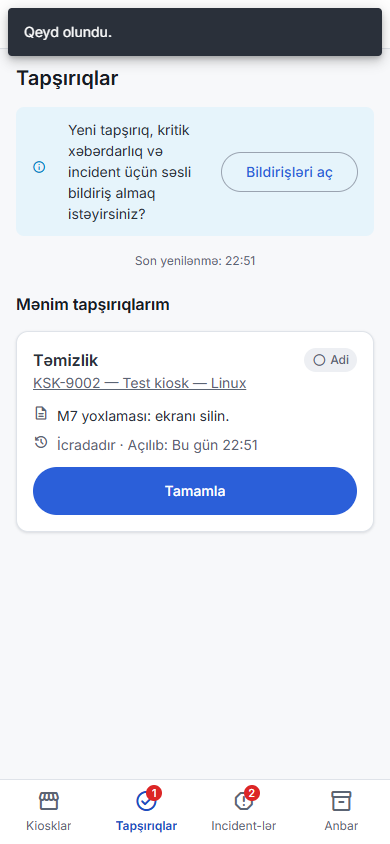
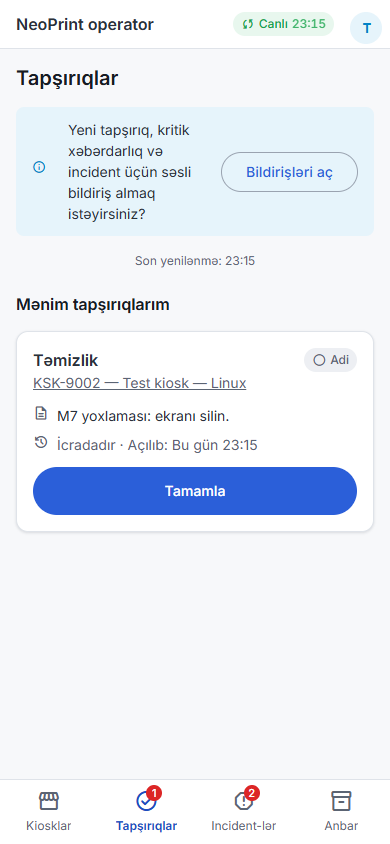
docs: the operator flow script's toner step; two dialog problems among the solved UI problems (T-211)

Changed region(s): [[0.0, 0.0, 1.0, 0.0924], [0.5846, 0.5237, 0.6462, 0.5545], [0.6154, 0.3081, 0.6462, 0.3389]]

diff --git a/docs/TASKS.md b/docs/TASKS.md
@@ -234,7 +234,7 @@ Statuslar: `Açıq`, `İcrada`, `Tamamlandı`, `Ləğv edildi (səbəb)`, `Təxi
 | T-208 | 2026-10-11 | 7A | Addım 7A / M4: **uzaqdan əmrlər** (plan 7.8) — `Pause`, `Resume`, `RestartApp`, `Reboot`: backend (idempotent, audit), kiosk icrası, nəticənin geri bildirilməsi; real stack: admin API-dən əmr → Linux kioskda icra | Tamamlandı | `3da4dc2` (backend), `779a02c`, `b1b3d16`, `75ebc4f` (kiosk, sənədlər); CI run 38177726243 — 7 iş yaşıl. **Backend:** `KioskCommandType` + `Pause`, `Resume`, `RestartApp`, `Reboot`; `KioskCommandStatus.Acknowledged`; `Kiosk.PauseByAdmin` / `ResumeByAdmin` (bayraq + `Maintenance`; server dərhal sifarişi rədd edir, kiosk offline olsa da; heartbeat, test çapı və safe mode-dan çıxış fasiləni götürmür); `POST admin/kiosks/{id}/pause \| resume \| restart-app \| reboot` (`kiosks.commands.pause` / `.restart` / `.reboot`), açıq əmr varsa o qaytarılır, audit; `POST kiosks/me/commands/{id}/ack`. **Kiosk:** `Pause` / `Resume` konfiqurasiyanı yenidən oxuyur, ekranda "Texniki xidmət" (restart-dan sonra da), sifarişin ortasındakı müştəri bitirir; `RestartApp` / `Reboot` təsdiqlənir, cari çapı gözləyir, `ISystemControl` ilə icra olunur, nəticəni yenidən qalxan tətbiq yazır (reboot — uptime ilə); safe mode-da xidmət əmrləri işləyir, çap əmrləri gözləyir. **Testlər:** domen `KioskAdminPauseTests` (9), inteqrasiya `KioskRemoteCommandTests` (4) + `RbacTests` (+1: üç ayrı icazə), kiosk `CommandProcessorTests` (12), `MaintenanceScreenTests` (4), ekran testi (+1 ekran × 3 dil); bütün dəstlər: backend Domain 504, Shared 122, Application 94, Integration 549; kiosk 326 + 3. **Real stack (admin API → KSK-9002, `node tools/dev-kiosk/command.mjs`):** `pause` → status `Maintenance`, əmr `Succeeded`, kiosk restart-dan sonra "Texniki xidmət" ekranındadır (`docs/screenshots/step-7/m4-01-kiosk-paused.png`); `resume` → `Online`; `restart-app` → `Acknowledged`, kiosk prosesi çıxdı (kod 0), yenidən qalxanda `Succeeded` — "Kiosk tətbiqi yenidən başladı"; `reboot` → konteynerdə `sudo` yoxdur: `Failed` — "Kompüter yenidən yüklənmədi: kiosk bu əmri icra edə bilmədi və işləməyə davam edir…", kiosk işləyir. **Real stack iki boşluq tapdı:** (1) fasilə gələndə axında olan kiosk axından çıxanda ana ekrana qayıdırdı — `RestingScreen`; (2) reboot-un rədd halının mətni yanlış idi — iki ayrı nəticə. **Real cihaz tələb edən:** həqiqi reboot (Linux `sudoers`, Windows `shutdown`) və Shell Launcher-in tətbiqi yenidən açması — MT-03 #9, MT-04 #10 (T-093, T-094). **Plandan fərq:** reboot Agent ilə yox, kioskun mövcud `ISystemControl`-u ilə — `DECISIONS.md` 2026-10-12 (layihə sahibinin təsdiqi gözlənilir). **Qalan:** admin paneldə düymələr — M8 (T-212). Sənədlər: `API.md`, `STATE_MACHINES.md`, `OFFLINE_BEHAVIOR.md`, `DEV_ENVIRONMENT.md`, `MANUAL_TESTS.md`, `DECISIONS.md` (3 sətir). `UI_BUGS.md` M4-dən sonra oxundu — boşdur |
 | T-209 | 2026-10-11 | 7A | Addım 7A / M5: **incident-lər və OutOfService axını** (plan 9.6) — incident API, `KioskHeartbeatMonitor`, `IncidentNotificationConsumer` (panel + email + Telegram — Telegram interface arxasında, real bot token-i Qrup B), `AffectedUsersNotificationConsumer`; DoD: printer söndürüləndə job `Interrupted`, kiosk "dayandı" ekranı, anonim bank ödənişləri avtomatik qaytarılır, qeydiyyatlılara refund təklifi, printer qayıdanda iş davam edir | Tamamlandı | `9ed1f56` (backend), `aeccc52` (kiosk), `1769177` (mobil), `4ff7987` + son sənəd commit-i; tapıntılar T-235 … T-238 ayrıca bağlanıb. **Backend:** kioskun nasazlığı (`Kiosk.DeclareFault / ClearFault`, `Paused`) — heartbeat-in `printerOnline` / `printerProblem` siqnalı `Kiosk.PrinterFaultAfterSeconds` (30) davam edəndə, printer xətası ilə kəsilən job-da dərhal, `POST incidents`-də və seçilmiş printer siyahıdan itəndə; hər problem növünə Critical incident, printer qayıdanda sistem bağlayır. `AutoRefundOnKioskErrorConsumer` + `KioskIncidentRaised`: qonağın növbədə gözləyən bank ödənişi ləğv + karta refund. `AffectedUsersNotificationConsumer`: qeydiyyatlı sahibə bildiriş (`KioskOutOfServiceRefundOffer` / `JobInterruptedRefundOffer`); `POST print-jobs/my/{id}/cancel`. Bərpada sahibi olan `Interrupted` sifarişlər yenidən `Queued` (avtomatik ən çox 3 cəhd, sonra High incident). `KioskHeartbeatMonitor` (15 san): susan kiosk `Offline` + Critical incident, heç nə ləğv olunmur. Admin: `GET admin/incidents/{id}` (toxunulan sifarişlər, ödənişlər, refund-lar), `acknowledge`, `resolve` (qeyd məcburi), audit, kiosk əhatəsi. `IncidentNotificationConsumer`: Critical / High üçün email + Telegram (öz klientimiz; token loqa düşmür — testlə), kimə getdiyi `incident_notifications`-da. **Kiosk:** heartbeat-də problem kodu; yenidən növbəyə qoyulan sifariş bir daha çap olunur; çöküş `POST incidents` ilə bildirilir. **Mobil:** sifariş kartında xəbərdarlıq + "Ləğv et və məbləği qaytar" (təsdiq dialoqu ilə). **Testlər:** `KioskFaultTests` (12, domen), `KioskOutageTests` (17, real Mongo / RabbitMQ / mock bank), kiosk `PrintQueueWorkerTests` / `SafeModeTests` / `MaintenanceScreenTests` / `PaymentFlowTests`, mobil `job_card_test`; tam dəstlər: backend 516 + 94 + 122 + 568 (uğursuz 0), kiosk 343 + 3, mobil 230. **Real stack** (yenidən qurulmuş `api`, Linux konteyner kiosku KSK-9002, fake printer; `docs/DEV_ENVIRONMENT.md` 7m): (1) printer dayandırıldı → 39 saniyəyə kiosk `Paused`, incident `PaperOut` (Critical, "Printerdə kağız bitib"), qeydiyyatlı sifariş `Queued` + `can cancel` + `KIOSK STOPPED`, bildiriş `KioskOutOfServiceRefundOffer`, kioskda "Kiosk müvəqqəti dayanmışdır" (`m5-01`); printer qaytarıldı → 20 saniyəyə `Online`, incident özü bağlandı, sifariş `Completed`. (2) çap ortasında `PaperJam` → sifariş `Interrupted`, kiosk dərhal `Paused`, bildiriş `JobInterruptedRefundOffer`; növbəti heartbeat-də sifariş yenidən növbədə → ikinci cəhddə `Completed` (`Runs = 2`, kağız ikinci çap üçün ayrıca yazıldı). (3) sahibi dayanmış kioskda sifarişi ləğv etdi → refund `Succeeded` → `Wallet` (`UserCancel`), ledger 7,66 → 7,86; eyni axın Android emulyatorunda tətbiqin özündən (`m5-02` … `m5-04`). (4) qonaq, kioskun öz ekranından: fləşdən sifariş → bank QR (mock bank) → printer dayandı → 40 saniyəyə sifariş `Cancelled`, refund `Succeeded` → karta; qəbz ekranında və ondan sonrakı ekranda "Çap tamamlanmadı — 0,20 ₼ kartınıza qaytarılır" + status QR-ı (`m5-05`, `m5-06`); incident detalında sifariş və refund. (5) ssenari B: `docker stop` → 61 saniyəyə `Offline` + `ConnectionLost` (Critical), heç nə ləğv olunmadı; `docker start` → 14 saniyəyə `Online`, incident özü bağlandı. (6) `kill -9` → `AppCrash` (High); üç çöküş → təhlükəsiz rejim + `AppCrash` (Critical), çıxanda özü bağlandı. **Açıq qalan (dürüst):** real printerdə yoxlanmayıb — MT-02 №6, №7 (30 saniyəlik gözləmə real printerin oyanmasına uyğun olmaya bilər); email / Telegram-ın real çatdırılması yoxlanmayıb (lokalda SMTP və bot token-i yoxdur — testlərdə tutulmuş göndəricilərlə; MT-06 №8); incident-lərin admin / operator səhifələri M7–M9-dadır (indi yalnız API və `tools/dev-kiosk/incidents.mjs`); əhatəsi məhdud hesaba `/hubs/admin` bildirişinin qrup üzrə getməsi yalnız kodla qurulub, ayrıca testi yoxdur; "Karta qaytar" seçimi (plan 2.5) yoxdur — məbləğ balansa qayıdır; `RefundOffered` ayrıca hub hadisəsi deyil (`DECISIONS.md`). Yeni: tənzimləmə `Kiosk.PrinterFaultAfterSeconds`, kolleksiya `incident_notifications`, endpoint-lər `POST incidents`, `GET admin/incidents/{id}`, `POST print-jobs/my/{id}/cancel` — plan Bölmə 2.4, 5, 6-ya yazılıb CI: run 38285578126 — 7 iş yaşıl (backend, desktop Windows + Linux, mobil, admin, lisenziya, dizayn qaydaları). |
 | T-210 | 2026-10-11 | 7A | Addım 7A / M6: **sərf modulu (backend)** (plan 2.15, 9.9) — `supply_alert_rules` (qlobal + kiosk), `SupplyEvaluator`, `SupplyForecastJob`, `service_tasks` (avtomatik yaratma, təyinat, eskalasiya), anbar (`inventory_*`, low stock); testlər | Tamamlandı | `ffecf3e` (modul), `5921be0` (tapşırığın qeydi), `df50a3b` (sənədlər), `6cd703b` (panel). **Kod:** domen — `SupplyAlert`, `ServiceTask` (state machine), `InventoryItem` / `InventoryMovement`, `SupplyForecaster`, `SupplyAlertRule.LevelOf / Watches / EnsureValid`; Application `Supplies/` — `SupplyEvaluator` (`EvaluateKioskSuppliesCommand`, 5 dəqiqəlik süpürgə), qayda CRUD-u, `ServiceTaskDesk` (açma, təyinat, bildiriş), tapşırıq əmrləri (yarat / redaktə / təyin / başla / tamamla / ləğv / eskalasiya), anbar, `SupplyOutlook` + `RunSupplyForecastCommand`; Infrastructure — 4 yeni kolleksiya və indekslər (aktiv alert və aktiv avtomatik tapşırıq üçün qismən unikal), `SupplyEvaluatorConsumer`, 4 recurring iş; API — `admin/supply-rules`, `admin/supply-alerts`, `admin/service-tasks`, `admin/inventory/*`; hub — `SupplyAlertRaised / Cleared`, `ServiceTaskAssigned / Updated`; 70-dən çox mesaj açarı az / en / ru. `GET admin/kiosks/{id}/supplies` cavabına `levels`, `forecasts`, `alerts` əlavə olundu. **Testlər:** `SupplyModuleTests` (25, domen: hədd, qayda, alert, tapşırığın vəziyyətləri, anbar sayğacı, proqnozun hesabı), `SupplyFlowTests` (9, real MongoDB / RabbitMQ: 9.9 axını sifarişin vərəqlərindən bağlanan alert-ə qədər — hub hadisəsi və operatorun email-i daxil; kiosk qaydası qlobalı əvəz edir; toner telemetriya ilə; təyinat, əhatə və icazələr; eskalasiya; proqnoz; anbar). Tam dəst lokalda: 540 + 127 + 94 + 588, uğursuz 0. CI: run 38321278234 — 7 iş yaşıl (əvvəlki run 38317975819-də panelin açar yoxlaması yeni `SupplyEventType.Replaced` üçün mətn tələb edib düşmüşdü — `6cd703b` ilə düzəldi). **Real stack** (yenidən qurulmuş `api` + `admin`, KSK-9002, `tools/dev-kiosk/supplies.mjs`; `DEV_ENVIRONMENT.md` 7n): lotok 200 → sifariş → 199: 3 saniyəyə `Warning` alert, `RefillPaper` tapşırığı `dev-operator`-a təyin olundu (`High`), Mailpit-də "NeoPrint — yeni tapşırıq: Kağız doldurmaq (KSK-9002)"; 50 → sifariş → 49: eyni alert `Critical`, tapşırıq `Critical`; operator "Başla" → "Tamamla" (Tam doldur + anbardan 1 bağlama): sayğac 500 / 500 (+451), anbar 10 → 9 (`UsedAtKiosk`), alert özü bağlandı; anbar 2 < minimum 3: `High` incident + 4 hesaba email, alışdan sonra incident özü bağlandı; dörd recurring iş Hangfire-da qeydiyyatdadır, `supply-evaluator` və `service-task-escalation` `Succeeded`; panelin "Sərf" tabı bütün hərəkətləri göstərir (`docs/screenshots/step-7/m6-01`). **Açıq qalan (dürüst):** toner real stack-də yoxlanmayıb — fake printer toner bildirmir (inteqrasiya testi telemetriya ilə keçir; real printerdə MT-02); proqnoz və anbar minimumu işlərinin saatlıq icrası real stack-də gözlənilməyib (əmrləri testlə, qeydiyyatı Hangfire-da yoxlanıb); alert və tapşırıqların panel səhifələri M7–M9-dadır (indi API + `supplies.mjs`); alert-in Telegram kanalı Faza 2; dashboard sayğacları (aktiv alert, gecikən tapşırıq, az qalıq) M9-da. **Qərar gözləyən:** `DECISIONS.md` 2026-10-13 sətirləri — operatorun tərifi (`complete` var, `manage` yox), "həddən aşağı" = ciddi kiçik, gecikən tapşırıq və az anbar incident kimi, `IssueToOperator` və `UsedAtKiosk` hər ikisi qalığı azaldır, `PUT admin/service-tasks/{id}` və `POST …/cancel` (silmə yoxdur) |
-| T-211 | 2026-10-11 | 7A | Addım 7A / M7: **operator paneli** (plan 8B; `/operator`, PWA) — Mənim kiosklarım, kiosk qısa detalı, Kağız doldur, Toner dəyişdirildi, Tapşırıqlarım, Incident-lər, Anbar; `DESIGN_SYSTEM.md` qaydası əvvəl; az / en / ru; real stack-də telefon enində screenshot-lar | Tamamlandı | **Qeyd (T-253, 2026-10-13):** "Tapşırıqlarım" səhifəsi `ServiceTaskAssigned` hadisəsini dinləməli və onu `hub-events.ts`-dəki `unheardHubEvents`-dən çıxarmalıdır (çıxarılmasa `hub-check` düşür). Operator səhifələri statusu `KioskLiveStore`-dan oxumalıdır (T-254). **Sübut (2026-10-13):** commit-lər `ed07d1f` (DESIGN_SYSTEM 5.4 — əvvəl qayda), `236446a` (backend: `GET admin/operator/kiosks`, `…/{id}`, `POST …/supplies/replaced`, `POST service-tasks/{id}/accept`, `POST inventory/items/{id}/take`, anbardan doldurma), `8fc2a97` (panel + PWA), `13419b1`, `9090726` (dialoq açılışı və qalıq), `05abc57` (sənədlər, ekran görüntüləri). Testlər: `SupplyFlowTests` 16 (4-ü operator), `HubContractTests` 3; admin — `operator-screen.spec.ts` 8, `operator-pages.spec.ts` 12, `refill.dialog.spec.ts` 9, `translations.spec.ts` 9, lint, `i18n-check` (1594 açar, az / en / ru), `hub-check` (24/24 hadisənin dinləyəni var, `unheardHubEvents` boşdur — `ServiceTaskAssigned` "Tapşırıqlar"da dinlənilir), render testi 6/6 (operator səhifələri 390×844). CI: run 38450361443 — 7 iş yaşıl. Real stack (telefon eni 390 px): `admin/e2e/pwa.mjs` 22/22 (keş başlıqları, manifest, ikonlar, girişdən sonra `/operator`, dörd səhifə, service worker aktiv, server əlçatmaz ikən "Son yenilənmə" + söndürülmüş düymələr, server qayıdanda sessiya bərpa olunur, konsol xətası 0), `admin/e2e/operator.mjs` 10/10 ("Tam doldur" + anbardan 1 bağlama, tapşırıq Başla → Tamamla qeydlə, "Özümə götürürəm" — hər biri serverdə yoxlanılır). Ekran görüntüləri: `docs/screenshots/step-7/m7/01…11`. Status `KioskLiveStore`-dan oxunur (kart, detal). Əl ilə yoxlanmalı: `docs/MANUAL_TESTS.md` MT-09 (real telefonda quraşdırma, bildiriş səsi). Layihə sahibinin qərarını gözləyən iki sual `docs/DECISIONS.md`-dədir: server əlçatmaz ikən soyuq açılış giriş səhifəsini göstərir; "Kiosk aktivləşdir (QR)" ekranı Addım 7-nin siyahısında yoxdur. |
+| T-211 | 2026-10-11 | 7A | Addım 7A / M7: **operator paneli** (plan 8B; `/operator`, PWA) — Mənim kiosklarım, kiosk qısa detalı, Kağız doldur, Toner dəyişdirildi, Tapşırıqlarım, Incident-lər, Anbar; `DESIGN_SYSTEM.md` qaydası əvvəl; az / en / ru; real stack-də telefon enində screenshot-lar | Tamamlandı | **Qeyd (T-253, 2026-10-13):** "Tapşırıqlarım" səhifəsi `ServiceTaskAssigned` hadisəsini dinləməli və onu `hub-events.ts`-dəki `unheardHubEvents`-dən çıxarmalıdır (çıxarılmasa `hub-check` düşür). Operator səhifələri statusu `KioskLiveStore`-dan oxumalıdır (T-254). **Sübut (2026-10-13):** commit-lər `ed07d1f` (DESIGN_SYSTEM 5.4 — əvvəl qayda), `236446a` (backend: `GET admin/operator/kiosks`, `…/{id}`, `POST …/supplies/replaced`, `POST service-tasks/{id}/accept`, `POST inventory/items/{id}/take`, anbardan doldurma), `8fc2a97` (panel + PWA), `13419b1`, `9090726`, `fd12eb6` (dialoqlar: açılış, qalıq, başlıq, izah), `05abc57` (sənədlər, ekran görüntüləri). Testlər: `SupplyFlowTests` 16 (4-ü operator), `HubContractTests` 3; admin — `operator-screen.spec.ts` 8, `operator-pages.spec.ts` 12, `refill.dialog.spec.ts` 9, `translations.spec.ts` 9, lint, `i18n-check` (1594 açar, az / en / ru), `hub-check` (24/24 hadisənin dinləyəni var, `unheardHubEvents` boşdur — `ServiceTaskAssigned` "Tapşırıqlar"da dinlənilir), render testi 6/6 (operator səhifələri 390×844). CI: run 38450361443 — 7 iş yaşıl. Real stack (telefon eni 390 px): `admin/e2e/pwa.mjs` 22/22 (keş başlıqları, manifest, ikonlar, girişdən sonra `/operator`, dörd səhifə, service worker aktiv, server əlçatmaz ikən "Son yenilənmə" + söndürülmüş düymələr, server qayıdanda sessiya bərpa olunur, konsol xətası 0), `admin/e2e/operator.mjs` 12/12 ("Tam doldur" + anbardan 1 bağlama, "Toner dəyişdirildi" — `Replaced Toner:Black`, tapşırıq Başla → Tamamla qeydlə, "Özümə götürürəm" — hər biri serverdə yoxlanılır). Ekran görüntüləri: `docs/screenshots/step-7/m7/01…12`. Status `KioskLiveStore`-dan oxunur (kart, detal). Əl ilə yoxlanmalı: `docs/MANUAL_TESTS.md` MT-09 (real telefonda quraşdırma, bildiriş səsi). Layihə sahibinin qərarını gözləyən iki sual `docs/DECISIONS.md`-dədir: server əlçatmaz ikən soyuq açılış giriş səhifəsini göstərir; "Kiosk aktivləşdir (QR)" ekranı Addım 7-nin siyahısında yoxdur. |
 | T-212 | 2026-10-11 | 7A | Addım 7A / M8: **admin: kiosk və printer səhifələri** — Kiosk detalı: Cari vəziyyət (canlı + qrafiklər), Sərf (proqnoz, qaydalar), Servis tapşırıqları, Incident-lər, Əmrlər; Printer detalı; Printerlər (ümumi). Qrafik üçün yeni paket lazım olarsa əvvəl təsdiq | Açıq | **Qeyd (T-253, 2026-10-13):** "Cari vəziyyət" və printer detalı `KioskTelemetryUpdated` və `PrinterTelemetryUpdated` hadisələrini dinləməli və onları `unheardHubEvents`-dən çıxarmalıdır. |
 | T-213 | 2026-10-11 | 7A | Addım 7A / M9: **admin: əməliyyat səhifələri** — Xəbərdarlıq qaydaları, Servis tapşırıqları, Anbar, Incident-lər (səs + brauzer bildirişi), Audit log. DoD 9.9: Warning / Critical alert-lər admin və operator panelində, tapşırıq avtomatik yaranır və təyin olunur, operator telefondan doldurmanı qeyd edir, sayğac və anbar yenilənir, alert bağlanır, proqnoz göstərilir | Açıq | |
 | T-214 | 2026-10-11 | 7A | Addım 7A / M10: **pilot hesabatı** (plan 2.17) — `AnalyticsRollupJob`, admin səhifəsi: format paylanması, funnel itkiləri, ödəniş xətaları | Açıq | |

diff --git a/docs/UI_BUGS.md b/docs/UI_BUGS.md
@@ -33,3 +33,5 @@ yoxdur.
 | 3 | 2026-10-13 | admin | İdarə paneli → Açıq incident-lər; Fiskal çeklər | Uğursuz qaytarma incident-inin mətni "Refund-lar səhifəsində təkrarlayın" deyirdi, menyuda isə səhifənin adı "Qaytarmalar"dır | Həll olundu (`aba8202`): mətn "Qaytarmalar" səhifəsini deyir (əvvəl yazılmış incident-lər açar ilə saxlanıldığı üçün onlar da yeni mətnlə göstərilir) |
 | 4 | 2026-10-13 | admin | Kiosklar (siyahı, 1366 px) | Kiosk kodu defisdən iki sətrə bölünürdü ("KSK-" / "9002"). Tapıldı: T-256 ekran görüntüsü | Həll olundu (`6e16403`): kod bir sözdür — `.neo-nowrap` |
 | 5 | 2026-10-13 | operator | Kağız doldur / Toner dəyişdirildi dialoqu (390 px) | "Anbardan çıxılacaq məhsul" seçimində uzun ad anbar qalığını kəsirdi ("A4 kağız, 500 vərəq — anbard…"). Tapıldı: M7 ekran görüntüsü | Həll olundu (`9090726`): seçimdə yalnız ad, qalıq sahənin altında ("Anbarda: 6 bağlama"); `docs/screenshots/step-7/m7/09-refill-filled-in.png` |
+| 6 | 2026-10-13 | operator | Toner dəyişdirildi dialoqu (390 px) | Başlıqda kiosk kodu defisdən iki sətrə bölünürdü ("KSK-" / "9002"). Tapıldı: M7 ekran görüntüsü | Həll olundu (`fd12eb6`): kod başlıqda bir sözdür (`.neo-nowrap`) — üç dialoqda; `docs/screenshots/step-7/m7/12-replaced-dialog.png` |
+| 7 | 2026-10-13 | operator | Toner dəyişdirildi dialoqu (390 px) | "Hansı" sahəsinin iki sətirlik izahının ikinci sətrini altındakı "Qeyd" sahəsi örtürdü | Həll olundu (`fd12eb6`): izahı olan sahə ona yer ayırır (`subscriptSizing="dynamic"`) |
